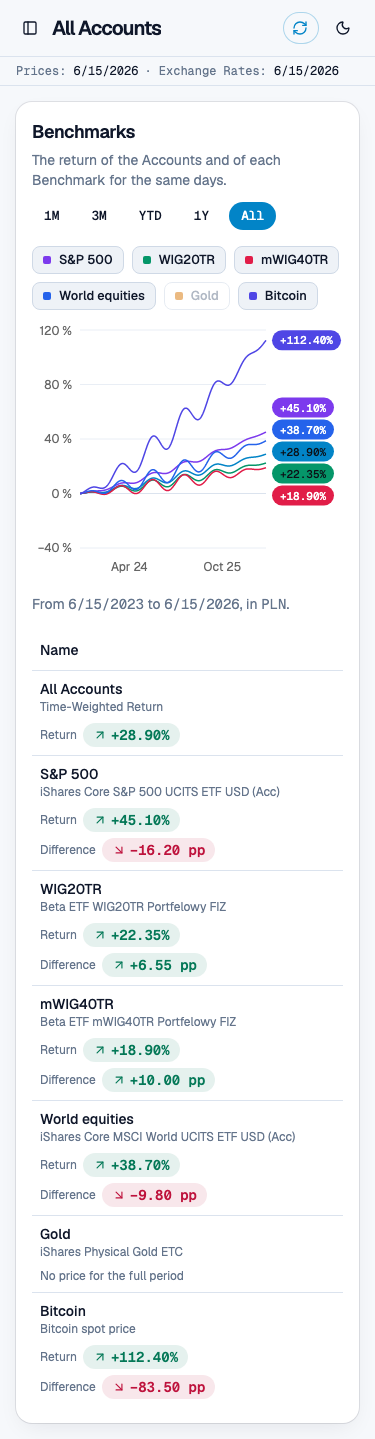
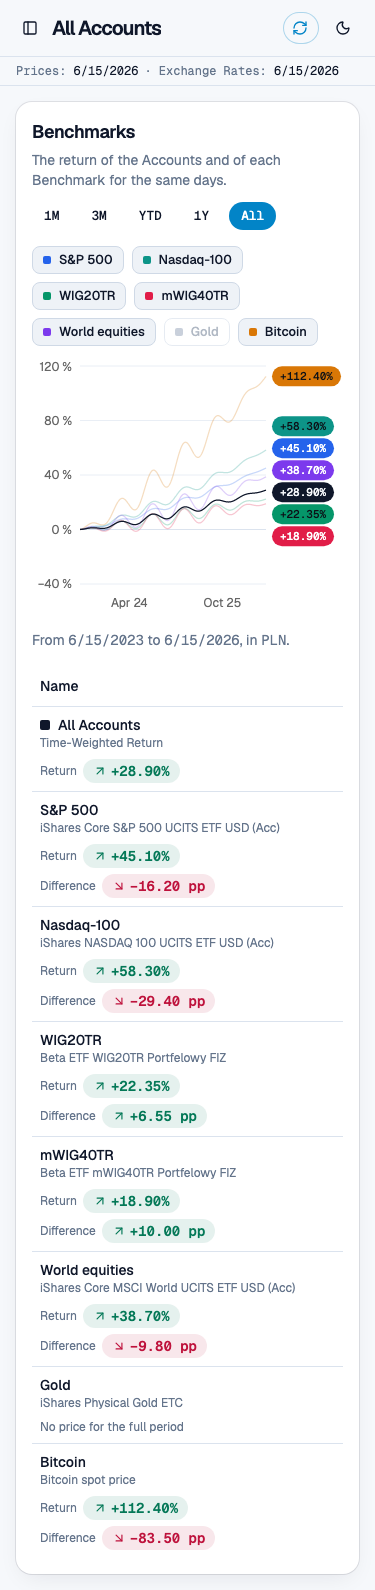
Add the Nasdaq-100 Benchmark (#110)
* Add the Nasdaq-100 Benchmark

The accumulating fund CNDX.L represents the Nasdaq-100 (ADR 0008). The ticker check found daily closes, currency USD and no dividend events.

* Make the own line stand out on the Benchmarks chart

* Show the own line in the foreground color on the Benchmarks chart

* Make the own line thinner and fade the Benchmark lines

* Give the own line the Benchmark stroke width

diff --git a/frontend/src/components/benchmark-chart.tsx b/frontend/src/components/benchmark-chart.tsx
@@ -1,7 +1,7 @@
 import {
   CartesianGrid,
+  ComposedChart,
   Line,
-  LineChart,
   ReferenceLine,
   XAxis,
   YAxis,
@@ -21,11 +21,7 @@ import { Toggle } from "@/components/ui/toggle"
 import { useBenchmarkSelection } from "@/hooks/use-benchmark-selection"
 import { useIsMobile } from "@/hooks/use-mobile"
 import type { BenchmarkPoint, Benchmarks } from "@/lib/api"
-import {
-  chartGridProps,
-  chartLineWidth,
-  chartTooltipClass,
-} from "@/lib/chart-style"
+import { chartGridProps, chartTooltipClass } from "@/lib/chart-style"
 import { axisDate, dateTime, dayMs, monthTicks } from "@/lib/chart-time"
 import { tagWidth } from "@/lib/end-tags"
 import { formatCompact, formatDate, formatPercent } from "@/lib/format"
@@ -34,23 +30,37 @@ import { cn } from "@/lib/utils"
 // userKey is the key of the line of the user in the chart data and in the chart config.
 const userKey = "user"
 
+// benchmarkLineWidth is the stroke width of each line, the user line included.
+const benchmarkLineWidth = 1.25
+
+// benchmarkOpacity is the stroke opacity of a Benchmark line: 75% transparent.
+const benchmarkOpacity = 0.25
+
+// drawOrder puts the user line last, so that the chart draws it on top of the Benchmark lines.
+function drawOrder(lines: ChartLine[]): ChartLine[] {
+  return [...lines].sort(
+    (a, b) => Number(a.key === userKey) - Number(b.key === userKey)
+  )
+}
+
 // LineStyle is the colour of a line and the colour of the text on its end tag.
 type LineStyle = { color: string; ink: string }
 
-// userStyle is the style of the user line: the primary colour. The tag text uses the ink of chart-1, which has the same hue.
-const userStyle: LineStyle = {
-  color: "var(--primary)",
-  ink: "var(--chart-1-foreground)",
+// userStyle is the style of the user line: the foreground colour, which no Benchmark uses. The tag text is inverted.
+export const userStyle: LineStyle = {
+  color: "var(--foreground)",
+  ink: "var(--background)",
 }
 
 // benchmarkStyles gives the style of the line of each Benchmark. A Benchmark with an unknown id uses otherStyle.
 const benchmarkStyles: Record<string, LineStyle> = {
-  sp500: { color: "var(--chart-4)", ink: "var(--chart-4-foreground)" },
+  sp500: { color: "var(--chart-2)", ink: "var(--chart-2-foreground)" },
+  nasdaq100: { color: "var(--chart-6)", ink: "var(--chart-6-foreground)" },
+  world: { color: "var(--chart-4)", ink: "var(--chart-4-foreground)" },
+  bitcoin: { color: "var(--chart-7)", ink: "var(--chart-7-foreground)" },
   wig20tr: { color: "var(--chart-5)", ink: "var(--chart-5-foreground)" },
   mwig40tr: { color: "var(--chart-8)", ink: "var(--chart-8-foreground)" },
-  world: { color: "var(--chart-2)", ink: "var(--chart-2-foreground)" },
-  gold: { color: "var(--chart-7)", ink: "var(--chart-7-foreground)" },
-  bitcoin: { color: "var(--chart-3)", ink: "var(--chart-3-foreground)" },
+  gold: { color: "var(--chart-other)", ink: "var(--chart-other-foreground)" },
 }
 const otherStyle = benchmarkStyles.world
 
@@ -184,7 +194,7 @@ function LinesView({ rows, lines, config, tags, compact }: LinesViewProps) {
       className="aspect-auto h-64 w-full md:h-80"
       initialDimension={{ width: 320, height: 256 }}
     >
-      <LineChart
+      <ComposedChart
         data={rows}
         margin={{ top: 8, right: tagMargin, bottom: 0, left: 0 }}
         accessibilityLayer
@@ -220,19 +230,20 @@ function LinesView({ rows, lines, config, tags, compact }: LinesViewProps) {
             />
           )}
         />
-        {lines.map((line) => (
+        {drawOrder(lines).map((line) => (
           <Line
             key={line.key}
             dataKey={line.key}
             type="linear"
             stroke={`var(--color-${line.key})`}
-            strokeWidth={chartLineWidth}
+            strokeWidth={benchmarkLineWidth}
+            strokeOpacity={line.key === userKey ? 1 : benchmarkOpacity}
             dot={false}
             isAnimationActive={false}
           />
         ))}
         <ChartEndTags time={last} tags={tags} />
-      </LineChart>
+      </ComposedChart>
     </ChartContainer>
   )
 }

diff --git a/frontend/src/components/benchmarks-body.tsx b/frontend/src/components/benchmarks-body.tsx
@@ -1,3 +1,4 @@
+import { userStyle } from "@/components/benchmark-chart"
 import { TriangleAlertIcon } from "lucide-react"
 import type { ReactNode } from "react"
 import { useSearchParams } from "react-router"
@@ -139,6 +140,7 @@ function BenchmarkTable({
           <FigureRow
             name={subjectLabel(subject)}
             detail="Time-Weighted Return"
+            swatch
             returnCell={<ResultBadge value={data.user.return} />}
             differenceCell={null}
           />
@@ -173,6 +175,8 @@ function BenchmarkRow({ benchmark }: { benchmark: BenchmarkReturn }) {
 }
 
 type FigureRowProps = {
+  // swatch shows a small square in the color of the user line before the name.
+  swatch?: boolean
   name: string
   detail: string
   // returnCell and differenceCell are the figures. Undefined means that the tool has no price for the full period.
@@ -185,6 +189,7 @@ type FigureRowProps = {
 
 // FigureRow is one row of the table: the name with its detail and the two figures, in columns on a wide screen.
 function FigureRow({
+  swatch,
   name,
   detail,
   returnCell,
@@ -195,7 +200,16 @@ function FigureRow({
   return (
     <TableRow>
       <TableCell className="font-medium whitespace-normal">
-        {name}
+        <span className="flex items-center gap-2">
+          {swatch && (
+            <span
+              aria-hidden
+              className="size-2.5 shrink-0 rounded-[2px]"
+              style={{ backgroundColor: userStyle.color }}
+            />
+          )}
+          {name}
+        </span>
         <span className="block text-xs font-normal break-words text-muted-foreground">
           {detail}
         </span>

diff --git a/frontend/screenshots/fixtures.ts b/frontend/screenshots/fixtures.ts
@@ -669,7 +669,7 @@ function returnSeries(
   })
 }
 
-// benchmarkRows gives the six Benchmarks for a user return. Gold has no price for the whole period.
+// benchmarkRows gives the seven Benchmarks for a user return. Gold has no price for the whole period.
 function benchmarkRows(
   user: number,
   from: string,
@@ -683,6 +683,14 @@ function benchmarkRows(
       "CSPX.L",
       "USD",
       45.1,
+    ],
+    [
+      "nasdaq100",
+      "Nasdaq-100",
+      "iShares NASDAQ 100 UCITS ETF USD (Acc)",
+      "CNDX.L",
+      "USD",
+      58.3,
     ],
     [
       "wig20tr",

diff --git a/frontend/src/index.css b/frontend/src/index.css
@@ -104,6 +104,7 @@
   --chart-other-foreground: #0f172a;
   --chart-4-foreground: #ffffff;
   --chart-5-foreground: #0c1017;
+  --chart-6-foreground: #0c1017;
   --chart-7-foreground: #0c1017;
   --chart-8-foreground: #ffffff;
   --radius: 0.625rem;
@@ -163,6 +164,7 @@
   --chart-other-foreground: #f1f5f9;
   --chart-4-foreground: #0c1017;
   --chart-5-foreground: #0c1017;
+  --chart-6-foreground: #0c1017;
   --chart-7-foreground: #0c1017;
   --chart-8-foreground: #0c1017;
   --sidebar: #090d13;

diff --git a/backend/internal/httpapi/benchmarks_test.go b/backend/internal/httpapi/benchmarks_test.go
@@ -137,6 +137,7 @@ func TestBenchmarks_BenchmarkInAccountCurrency_ReturnAndDifference(t *testing.T)
 		User: userReturnDTO{Return: ptr("1"), Series: octoberSeries(map[int]string{20: "1"})},
 		Benchmarks: []benchmarkDTO{
 			noFullPeriod("sp500", "S&P 500", "iShares Core S&P 500 UCITS ETF USD (Acc)", "CSPX.L", "USD"),
+			noFullPeriod("nasdaq100", "Nasdaq-100", "iShares NASDAQ 100 UCITS ETF USD (Acc)", "CNDX.L", "USD"),
 			{
 				ID: "wig20tr", Name: "WIG20TR", Fund: "Beta ETF WIG20TR Portfelowy FIZ", Ticker: "ETFBW20TR.WA",
 				QuoteCurrency: "PLN", Status: "available", Return: ptr("12.5"), Difference: ptr("-11.5"),
@@ -586,7 +587,7 @@ func TestBenchmarks_CloseInOtherCurrency_NotStoredAndAskedAgain(t *testing.T) {
 }
 
 // benchmarkTickers are the price tickers of the Benchmarks, in the order of the list.
-var benchmarkTickers = []string{"CSPX.L", "ETFBW20TR.WA", "ETFBM40TR.WA", "IWDA.L", "IGLN.L", "BTC-USD"}
+var benchmarkTickers = []string{"CSPX.L", "CNDX.L", "ETFBW20TR.WA", "ETFBM40TR.WA", "IWDA.L", "IGLN.L", "BTC-USD"}
 
 // benchmarkRequests returns the request of each Benchmark from the day from to the day to, in the order of the list.
 func benchmarkRequests(from, to string) []historyRequest {
@@ -610,7 +611,7 @@ func TestRefreshPrices_Benchmarks_RequestsEachBenchmarkFromSevenDaysBeforeFirstC
 
 	assert.Equal(t, benchmarkRequests("2026-09-24", "2026-10-22"), provider.adjustedRequests())
 	assert.Len(t, provider.historyRequests(), 2, "the Instruments get their history as before")
-	assert.Equal(t, 8, srv.pauses.count(), "the tool pauses before each history request, also of a Benchmark")
+	assert.Equal(t, 9, srv.pauses.count(), "the tool pauses before each history request, also of a Benchmark")
 }
 
 func TestRefreshPrices_SecondRefresh_AsksNoBenchmarkDaysAgain(t *testing.T) {
@@ -686,6 +687,6 @@ func TestRefreshPrices_BenchmarkTooManyRequests_StopsTheRefresh(t *testing.T) {
 	refresh := srv.refreshHistory(t)
 
 	assert.True(t, refresh.TooManyRequests)
-	assert.Equal(t, benchmarkRequests("2026-09-24", "2026-10-22")[:2], provider.adjustedRequests(),
+	assert.Equal(t, benchmarkRequests("2026-09-24", "2026-10-22")[:3], provider.adjustedRequests(),
 		"the refresh sends no request after the block")
 }

diff --git a/backend/internal/httpapi/pricehistory_test.go b/backend/internal/httpapi/pricehistory_test.go
@@ -120,7 +120,7 @@ func TestRefreshPrices_SoldInstrument_GetsHistoryFromFirstFillToYesterday(t *tes
 	assert.Equal(t, []string{"XYZ"}, provider.requestedTickers(), "only a held Instrument gets a current price")
 	assert.Equal(t, []string{"2026-10-19=101", "2026-10-20=103", "2026-10-21=105", "2026-10-22=104"}, srv.storedCloses(t, "ABC.US"))
 	assert.Equal(t, []string{"2026-10-20=50.5", "2026-10-21=51", "2026-10-22=52"}, srv.storedCloses(t, "XYZ.US"))
-	assert.Equal(t, 8, srv.pauses.count(), "the tool pauses before each history request: 2 Instruments and 6 Benchmarks")
+	assert.Equal(t, 9, srv.pauses.count(), "the tool pauses before each history request: 2 Instruments and 7 Benchmarks")
 }
 
 func TestRefreshPrices_SecondRefresh_AsksOnlyMissingDays(t *testing.T) {
@@ -360,8 +360,8 @@ func TestRefreshProgress_ShowsTheRunningHistoryRequest(t *testing.T) {
 
 	close(release)
 	require.NoError(t, <-done)
-	assert.Equal(t, progressResponse{Running: true, Done: 1, Total: 8, Ticker: ptr("XYZ.US")}, got,
-		"the total has the 2 Instruments and the 6 Benchmarks")
+	assert.Equal(t, progressResponse{Running: true, Done: 1, Total: 9, Ticker: ptr("XYZ.US")}, got,
+		"the total has the 2 Instruments and the 7 Benchmarks")
 	assert.Equal(t, progressResponse{}, srv.progress(t), "the refresh is done")
 }
 

diff --git a/backend/internal/httpapi/allbenchmarks_test.go b/backend/internal/httpapi/allbenchmarks_test.go
@@ -92,6 +92,7 @@ func TestAllBenchmarks_PLNAndUSDAccounts_ReturnInPLNAndDifference(t *testing.T) 
 				QuoteCurrency: "USD", Status: "available", Return: ptr("2.6"), Difference: ptr("-4.6"),
 				Series: octoberSeries(map[int]string{15: "1.4", 22: "5.3", 23: "2.6"}),
 			},
+			noFullPeriod("nasdaq100", "Nasdaq-100", "iShares NASDAQ 100 UCITS ETF USD (Acc)", "CNDX.L", "USD"),
 			{
 				ID: "wig20tr", Name: "WIG20TR", Fund: "Beta ETF WIG20TR Portfelowy FIZ", Ticker: "ETFBW20TR.WA",
 				QuoteCurrency: "PLN", Status: "available", Return: ptr("12.5"), Difference: ptr("-14.5"),

diff --git a/backend/internal/benchmark/compare_test.go b/backend/internal/benchmark/compare_test.go
@@ -116,7 +116,7 @@ func TestCompare_EachBenchmarkOfTheListInOrder(t *testing.T) {
 		ids = append(ids, r.ID)
 		assert.Equal(t, benchmark.StatusNoFullPeriod, r.Status)
 	}
-	assert.Equal(t, []string{"sp500", "wig20tr", "mwig40tr", "world", "gold", "bitcoin"}, ids)
+	assert.Equal(t, []string{"sp500", "nasdaq100", "wig20tr", "mwig40tr", "world", "gold", "bitcoin"}, ids)
 }
 
 // TestCompare_Series checks the Benchmark Return of each calendar day from the base day 2026-10-01 to the last

diff --git a/backend/internal/benchmark/benchmark.go b/backend/internal/benchmark/benchmark.go
@@ -29,6 +29,10 @@ func List() []Benchmark {
 			Ticker: "CSPX.L", QuoteCurrency: "USD",
 		},
 		{
+			ID: "nasdaq100", Name: "Nasdaq-100", Fund: "iShares NASDAQ 100 UCITS ETF USD (Acc)",
+			Ticker: "CNDX.L", QuoteCurrency: "USD",
+		},
+		{
 			ID: "wig20tr", Name: "WIG20TR", Fund: "Beta ETF WIG20TR Portfelowy FIZ",
 			Ticker: "ETFBW20TR.WA", QuoteCurrency: "PLN",
 		},

diff --git a/docs/adr/0008-accumulating-fund-represents-each-benchmark.md b/docs/adr/0008-accumulating-fund-represents-each-benchmark.md
@@ -21,11 +21,12 @@ The tool compares the Time-Weighted Return of the user with the Benchmark Return
 
 ## The list
 
-The ticker check on 2026-11-22 used the chart endpoint of Yahoo Finance. Each fund has daily closes, no dividend events and a currency in a full unit. No candidate needed a replacement.
+The ticker check on 2026-11-22 used the chart endpoint of Yahoo Finance. Each fund has daily closes, no dividend events and a currency in a full unit. No candidate needed a replacement. The user added the Nasdaq-100 on 2026-11-24. The check of `CNDX.L` on that day found daily closes, no dividend events and the currency USD.
 
 | Benchmark | Fund | Price ticker | Quote Currency | First close |
 |---|---|---|---|---|
 | S&P 500 | iShares Core S&P 500 UCITS ETF USD (Acc) | `CSPX.L` | USD | 2010-09-15 |
+| Nasdaq-100 | iShares NASDAQ 100 UCITS ETF USD (Acc) | `CNDX.L` | USD | 2010-09-15 |
 | WIG20TR | Beta ETF WIG20TR Portfelowy FIZ | `ETFBW20TR.WA` | PLN | 2019-01-07 |
 | mWIG40TR | Beta ETF mWIG40TR Portfelowy FIZ | `ETFBM40TR.WA` | PLN | 2019-09-05 |
 | World equities | iShares Core MSCI World UCITS ETF USD (Acc) | `IWDA.L` | USD | 2009-09-25 |
